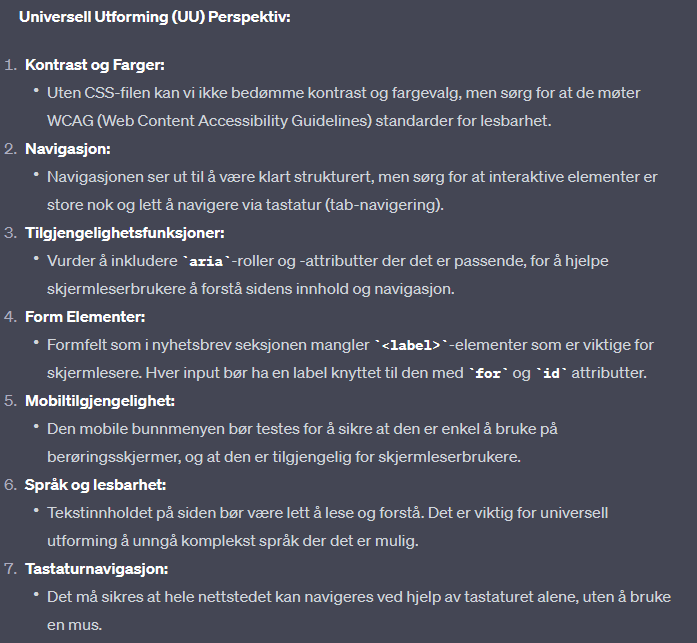
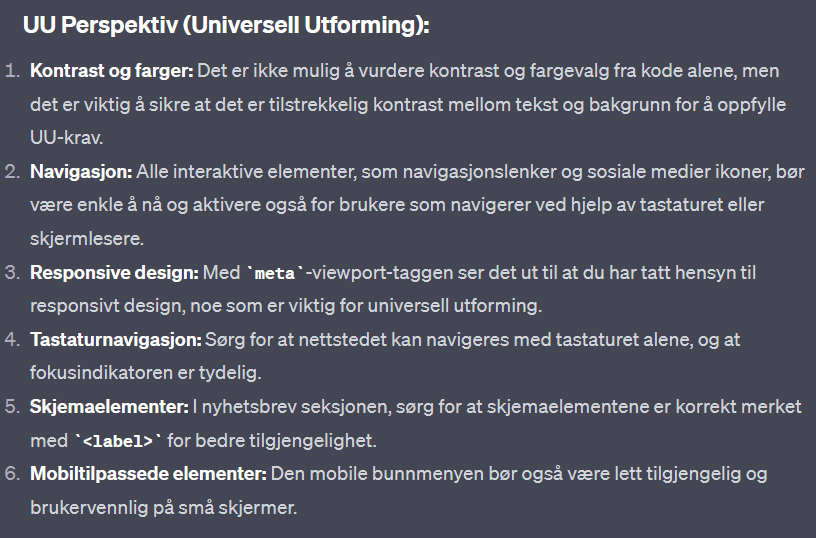
c

Changed region(s): [[0.0, 0.0, 0.9943, 0.9814]]

diff --git a/analyse.html b/analyse.html
@@ -123,41 +123,64 @@
 <section id="seo-analyse">
     <h2>SEO Analyse</h2>
     
+    <section class="seo-analyse-forside">
+        <h2>Forsiden Analyse</h3>
+        <p>Lighthouse-analysen viser at både desktop- og mobilversjonen oppnår en SEO-poengsum på 90 av 100. Dette er et imponerende resultat, men analysen har også identifisert et forbedringspunkt: begge versjonene mangler en meta-beskrivelse. En velutformet meta-beskrivelse er viktig for søkemotoroptimalisering, og legge til dette kan ytterligere styrke sidens SEO-status.</p>
+        
         <!-- Analyse for Forsiden Desktop -->
-        <article class="seo-analyse-item">
-            <h3>Forside - Desktop</h3>
-            <p>Desktop-analyse viser en SEO-score på 90, noe som indikerer at siden er godt optimalisert for søkemotorer. Den høye scoren reflekterer bruk av semantisk HTML, tilstedeværelsen av metatagger, og tilpassede titler og beskrivelser for siden.</p>
-            <img src="img/lighthouse-forside-desktop.png" alt="Lighthouse SEO analyse av forsiden på desktop">
+        <article class="seo-analyse-forside-desktop">
+            <h3>Forside - Desktop</h4>
+            <img src="img/seo-forside-desktop.png" alt="Lighthouse SEO analyse av forsiden på desktop" width="600" height="400">
         </article>
-    
+        
         <!-- Analyse for Forsiden Mobile -->
-        <article class="seo-analyse-item">
-            <h3>Forside - Mobile</h3>
-            <p>Mobil-analyse viser en SEO-score på 90, noe som tyder på at mobilvisningen også er godt optimalisert. Dette antyder at siden bruker responsive designprinsipper og har rask lastetid, noe som er viktig for mobilbrukere.</p>
-            <img src="img/lighthouse-forside-mobile.png" alt="Lighthouse SEO analyse av forsiden på mobile">
-        </article>
+        <article class="seo-analyse-item forside-mobile">
+            <h4>Forside - Mobile</h4>
+            <img src="img/seo-forside-mobile.png" alt="Lighthouse SEO analyse av forsiden på mobile">
+    </section>
     
+
+
+    <section class="seo-analyse-produktside">
+        <h2>Produktside Analyse</h2>
+        <p> Ved gjennomgang av nettstedet ble det oppnådd en SEO-score på 90/100 for både desktop- og mobilversjonene. Det ble påpekt at nettstedet mangler en meta-beskrivelse for begge versjonene. Mobilanalysen viser også at interaktive elementer som knapper og lenker ikke er optimalisert for tap; de bør ha en minimumsstørrelse på 48x48 piksler, eller tilstrekkelig med plass rundt seg, for å sikre en god brukeropplevelse og unngå overlapping med andre elementer. Å rette opp disse svakhetene vil ikke bare potensielt forbedre SEO-scoren ytterligere, men også brukervennligheten på tvers av enheter. </p>
+
+
         <!-- Analyse for Produktside Desktop -->
-        <article class="seo-analyse-item">
+        <article class="seo-analyse-produktside-desktop">
             <h3>Produktside - Desktop</h3>
-            <p>For desktop visning oppnår produktsiden en imponerende 100 i Performance, noe som betyr at siden laster svært raskt og har optimalisert ressursbruk. Accessibility-scoren på 93 indikerer at siden er godt tilgjengelig for brukere med forskjellige behov. En score på 86 i Best Practices viser at det er noen få områder for forbedring i hvordan nettleserfunksjoner brukes og annen god kodepraksis. SEO-scoren på 90 viser at siden er godt optimalisert for søkemotorer, men kan muligens forbedres ytterligere med finjusteringer.</p>
-            <img src="img/lighthouse-produktside-desktop.png" alt="Lighthouse SEO analyse av produktsiden på desktop">
+            <img src="img/seo-produkt-desktop.png" alt="Lighthouse SEO analyse av produktsiden på desktop">
         </article>
     
         <!-- Analyse for Produktside Mobile -->
-        <article class="seo-analyse-item">
+        <article class="seo-analyse-produktside-mobile">
             <h3>Produktside - Mobile</h3>
-            <p>På mobil enheter scorer produktsiden nesten like høyt som på desktop, med en Performance på 99 som demonstrerer rask lasting og effektivt innholdsrendering på mobile enheter. Tilgjengeligheten holder seg stabil på 93, noe som understreker at siden også er tilrettelagt for brukere med tilgjengelighetsbehov på tvers av enheter. Best Practices-scoren på 91 er en indikasjon på at siden følger moderne webstandarder og praksiser også for mobile brukere. SEO-scoren på 90 sikrer at siden er velposisjonert for søkemotorsynlighet, selv når den blir tilgjengeliggjort på mobile enheter. PWA-indikatoren viser at applikasjonen tilbyr en nær-native brukeropplevelse på mobile enheter, men detaljene her vil kreve en dypere teknisk analyse for å forstå det fulle potensialet av PWA for produktsiden.</p>
-            <img src="img/lighthouse-produktside-mobile.png" alt="Lighthouse SEO analyse av produktsiden på mobile">
+            <img src="img/seo-produkt-mobile-lighthouse.png" alt="Lighthouse SEO analyse av produktsiden på mobile">
         </article>
+    </section>
     
+
+
+
+
+    <sextion class="seo-analyse-produkdetalj">
+
         <!-- Analyse for Produktdetalj Side Desktop -->
-        <article class="seo-analyse-item">
+        <article class="seo-analyse-produktdetalj-desktop">
             <h3>Produktdetaljside - Desktop</h3>
-            <p>Denne Lighthouse-rapporten indikerer en eksepsjonell ytelse på 100 for desktop, noe som sikrer lynrask lastet. Den scorer også 90% på SEO-Analyse </p>
-            <img src="img/lighthouse-produktdetalj-desktop.png" alt="Lighthouse SEO analyse av produktdetaljsiden på desktop">
+            <p>  Desktop versjonen scorer 90 i SEO samme med mobil versjonen. Mobile versjonen får også en versjon om at tap targets are not sized properly - noe den scorer 89% på.      </p>
+            <img src="img/seo-produktdetalj-desktop.png" alt="Lighthouse SEO analyse av produktdetaljsiden på desktop">
             </article>
         </section>
+
+        <article class="seo-analyse-produktdetalj-mobile">
+            <h3>Produktdetaljside - Mobile</h3>
+            <img src="img/seo-produktdetalj-mobile.png" alt="Lighthouse SEO analyse av produktdetaljsiden på mobile">
+        </article>
+    </section>
+
+
+
 
 
 <!-- Seksjon for Universell Utforming (UU) Analyse -->
@@ -199,12 +222,9 @@
         <h3>SEO Resultater : Forside Analyse</h3>
 
         <img src="img/seoperspektiv-forside.png" alt="ChatGPT SEO analyse for forside">
-        <p>
-
-        I SEO-analysen påpekes det først at språkattributtet på siden indikerer engelsk (lang="en"), men siden er ment for et norsk publikum, derfor foreslås det å endre attributtet til norsk (lang="no") for å gjenspeile innholdets språk. Det nevnes at meta-beskrivelser og nøkkelord mangler, og at titteltaggen bør inneholde viktig nøkkelord og spesifikk informasjon for å forbedre relevansen. Videre anbefales det å strukturere overskrifter på en semantisk måte for brukervennlighet og søkemotoroptimalisering, samt å sørge for at bildetekster er beskrivende og at ankerlenker (linker) er informative og relevante. Responsiv design er også nevnt, spesielt viktigheten av en viewport meta-tag for mobilvennlighet. Til slutt er det en oppfordring til å inkludere Open Graph og Twitter-kort metatagger for å optimalisere hvordan innholdet deles på sosiale medier.
-
-        </p>
+        <p> I SEO-analysen påpekes det først at språkattributtet på siden indikerer engelsk (lang="en"), men siden er ment for et norsk publikum, derfor foreslås det å endre attributtet til norsk (lang="no") for å gjenspeile innholdets språk. Det nevnes at meta-beskrivelser og nøkkelord mangler, og at titteltaggen bør inneholde viktig nøkkelord og spesifikk informasjon for å forbedre relevansen. Videre anbefales det å strukturere overskrifter på en semantisk måte for brukervennlighet og søkemotoroptimalisering, samt å sørge for at bildetekster er beskrivende og at ankerlenker (linker) er informative og relevante. Responsiv design er også nevnt, spesielt viktigheten av en viewport meta-tag for mobilvennlighet. Til slutt er det en oppfordring til å inkludere Open Graph og Twitter-kort metatagger for å optimalisere hvordan innholdet deles på sosiale medier. </p>
     </article>
+</section>
 
     <article id="chatgpt-uu-forside">
     <h3>UU Resultater : Forside Analyse</h3>
@@ -238,9 +258,9 @@
 
 
 
-    <article id="chatgpt-seo-produkt">
+    <article id="chatgpt-uu-produkt">
         <h3> UU Resultater : Produktside Analyse </h3>
-        <img src="img/uu-analyse-produktside" alt="ChatGPT UU analyse for produktside">
+        <img src="img/uu-produkt.png" alt="ChatGPT UU analyse for produktside">
 
         <p>
 
@@ -248,16 +268,33 @@
 
         </p>
 
+    </article>
 
 
+    <article id="chatgpt-seo-produktdetalj">
+        <h3> SEO Resultater : Produktdetalj Analyse</h3>
+        <img src="img/seo-produktdetalj.png" alt="ChatGPT SEO analyse for produktdetalj side">
+
+        <p>
+
+            I SEO-delen for produktdetalj siden er det anbefalt å endre språkinnstillingen i html-taggen fra engelsk til norsk for å matche nettstedets innholdsspråk. En meta-beskrivelse bør også legges til for å forbedre nettstedets søkemotoroptimalisering, sammen med mer beskrivende alt-attributter for bilder for å styrke både SEO og tilgjengelighet. Nettstedets tittel kunne vært forbedret med flere beskrivende nøkkelord. Bruken av overskrifter fra h1 til h6 bør være mer strukturert for å skape en klarere innholdsstruktur, og lenker som kun inneholder ikoner bør suppleres med tekst som gir informasjon om lenkens formål til søkemotorer.
+
+        </p>
 
 
+    </article>
+
+    <article id="chatgpt-uu-produktdetalj">
+        <h3> UU Resultater : Produktdetalj Analyse </h3>
+        <img src="img/uu-produktdetalj.png" alt="CHATGPT UU analyse for produktdetalj side">
+
+        <p>
+
+            Når det gjelder universell utforming (UU), er bruken av aria-label for å beskrive seksjoner et positivt skritt, men det påpekes at disse etikettene bør være mer informative. Det mangler synlige fokusindikatorer for interaktive elementer, noe som er viktig for tastaturbrukere. Skjemaer og nyhetsbrevinnmeldinger mangler korrekte label-elementer, noe som er essensielt for skjermleserbrukere. Tekstkontraster og størrelser bør også vurderes nøye for å sikre at de er lesbare for alle brukere, inkludert de med synshemming. Videre, tilgjengelige tekstbeskrivelser for knapper som "Legg til i handlekurv" eller "Legg til i favoritter" er ikke tilstede, men kan forbedres med aria-label. Responsiviteten på nettstedet skal også sikres for å støtte ulike skjermstørrelser og enheter.
 
 
-    
-
-
-
+        </p>
+    </article>
 
 
 
@@ -267,55 +304,92 @@
 
     <h3>SEO Resultater : Produktdetaljside Analyse</h3>
 
-
-
-
-
-
-
+    
     
 
+<!-- Lager en tabell med en inspirasjon fra dev.to | https://dev.to/dcodeyt/creating-beautiful-html-tables-with-css-428l -->
+<!-- Sammenligningstabell for SEO og tilgjengelighetsanalyse -->
+<table class="table">
+    <thead>
+        <tr>
+            <th>Evaluering</th>
+            <th>ChatGPT Resultater</th>
+            <th>Lighthouse Resultater</th>
+            <th>WebAIM Resultater</th>
+        </tr>
+    </thead>
+    <tbody>
+        <!-- SEO Analyse -->
+        <tr>
+            <td>SEO: Språk</td>
+            <td>Vurdere å bruke "lang" attributtet for norsk innhold</td>
+            <td></td>
+            <td></td>
+        </tr>
+        <tr>
+            <td>SEO: Meta Description</td>
+            <td>Mangel på meta description</td>
+            <td>Mangler meta description</td>
+            <td></td>
+        </tr>
+        <tr>
+            <td>SEO: Nøkkelord og Titler</td>
+            <td>Inkludere viktige nøkkelord i tittelen for bedre SEO</td>
+            <td></td>
+            <td></td>
+        </tr>
+        <tr>
+            <td>SEO: Linker</td>
+            <td>Linker kan være mer beskrivende, unngå "klikk her"</td>
+            <td></td>
+            <td>Empty link, Redundant link</td>
+        </tr>
+        <tr>
+            <td>SEO: Overskrifter</td>
+            <td>Passe på riktig bruk av <h1-h6> for innholdets viktighet</td>
+            <td></td>
+            <td>Missing first level heading</td>
+        </tr>
+        <!-- UU (Universell Utforming) Analyse -->
+        <tr>
+            <td>UU: Navigasjon</td>
+            <td>Nettstedet bør være navigerbart med tastatur</td>
+            <td></td>
+            <td></td>
+        </tr>
+        <tr>
+            <td>UU: Skjemaer</td>
+            <td>Skjemaelementer bør merkes korrekt med <label></td>
+            <td></td>
+            <td>Missing form label</td>
+        </tr>
+        <tr>
+            <td>UU: Mobil Brukervennlighet</td>
+            <td>Mobil bunnmenyen bør være brukervennlig på små skjermer</td>
+            <td>Advarsel for størrelsen på elementer for touch</td>
+            <td></td>
+        </tr>
+        <tr>
+            <td>UU: Interaktive Elementer</td>
+            <td>Knapper og lenker bør være store nok og enkle å aktivere</td>
+            <td></td>
+            <td></td>
+        </tr>
+        <!-- Andre WebAIM funn -->
+        <tr>
+            <td>WebAIM: Alternative Tekster</td>
+            <td></td>
+            <td></td>
+            <td>Sus alternative text</td>
+        </tr>
+        <!-- Fortsett med flere rader basert på de faktiske resultatene fra analysene -->
+    </tbody>
+</table>
 
 
 
 
 
-
-
-
-
-
-
-
-
-
-
-
-        <!-- Sammenligningstabell -->
-        <section id="sammenligningstabell">
-            <h2>Sammenligning av Resultater</h2>
-            <table>
-                <thead>
-                    <tr>
-                        <th>ChatGPT Resultater</th>
-                        <th>Lighthouse Resultater</th>
-                        <th>WebAIM Resultater</th>
-                    </tr>
-                </thead>
-                <tbody>
-
-
-
-                    <!-- Fyll inn hver rad med resultater fra hver ressurs -->
-                    <tr>
-                        <td>ChatGPT resultatene her</td>
-                        <td>Lighthouse resultatene her</td>
-                        <td>WebAIM resultatene her</td>
-                    </tr>
-                    <!-- Gjenta for hver side/resultat du har -->
-                </tbody>
-            </table>
-        </section>
 
 
 
@@ -328,12 +402,7 @@
         </section>
 
     </main>
-
-
-
-
-        
-        <!-- Footer-seksjonen -->
+    <!-- Footer-seksjonen -->
         <footer>
             <!-- Nyttige lenker seksjon -->
             <section class="useful-links">

diff --git a/style.css b/style.css
@@ -50,12 +50,6 @@ header {
 .navbar { margin-top: 1.5rem;}
 
 
-.navbar a {
-  margin: 4px; /* Make sure there is space between the tap targets */
-  font-size: 16px; /* You can adjust the font-size if needed */
-}
-
-
 nav a {
 color: #333;
 font-size: 16px;
@@ -144,15 +138,6 @@ display: none;
 
 
 
-/* For icons like cart and flag which are interactive */
-#cart, #flag {
-  padding: 12px; /* Add padding to increase tap area to at least 48x48px */
-  font-size: 24px; /* Adjust the font-size to ensure icons are easily tappable */
-}
-
-
-
-
 
 
 /* Jeg la til "Home" i nav elementet - men velger å fjerne det
@@ -182,8 +167,6 @@ på mobil ved hjelp av media query: */
 
 .mobile-bottom-bar a {
   color: #0e0e0e;
-  padding:12px; 
-  margin: 4px;
   font-size: 24px; /* Økte skriftstørrelsen for å forstørre ikonene */
   text-decoration: none;
   transition: transform 0.5s, color 0.3s, border 0.3s; /* Glatt overgang ved hover */
@@ -242,16 +225,6 @@ list-style: none;
 padding: 0;
 
 }
-
-/* For the newsletter button */
-footer .newsletter button {
-  min-width: 48px; /* Ensure minimum width */
-  min-height: 48px; /* Ensure minimum height */
-  padding: 12px 20px; /* Adjust padding to increase tap area */
-  margin:20px;
-}
-
-
 
 
 
@@ -384,8 +357,6 @@ padding:1.5rem;
 #cart, #flag, input[type="text"] {
   display: inline-flex;
 }
-
-
 
 
 

diff --git a/produktdetalj.html b/produktdetalj.html
@@ -6,6 +6,10 @@
     <!-- Definerer metainformasjon og stilark i head-seksjonen -->
     <meta charset="UTF-8">
     <meta name="viewport" content="width=device-width, initial-scale=1.0">
+    <meta name="description" content="Discover the latest in comfort & style with our wide range of shoes for all occasions.">
+
+
+
 
     <!-- Lenker til Normalize.css og Font Awesome-stiler -->
     <link rel="stylesheet" href="https://necolas.github.io/normalize.css/8.0.1/normalize.css" type="text/css">

diff --git a/index.html b/index.html
@@ -6,6 +6,7 @@
     <!-- Definerer metainformasjon og stilark i head-seksjonen -->
     <meta charset="UTF-8">
     <meta name="viewport" content="width=device-width, initial-scale=1.0">
+    <meta name="description" content="Discover the latest in comfort & style with our wide range of shoes for all occasions.">
 
     <!-- Lenker til Normalize.css og Font Awesome-stiler -->
     <link rel="stylesheet" href="https://necolas.github.io/normalize.css/8.0.1/normalize.css" type="text/css">

diff --git a/produkt.html b/produkt.html
@@ -6,6 +6,7 @@
     <!-- Definerer metainformasjon og stilark i head-seksjonen -->
     <meta charset="UTF-8">
     <meta name="viewport" content="width=device-width, initial-scale=1.0">
+    <meta name="description" content="Discover the latest in comfort & style with our wide range of shoes for all occasions.">
 
     <!-- Lenker til Normalize.css og Font Awesome-stiler -->
     <link rel="stylesheet" href="https://necolas.github.io/normalize.css/8.0.1/normalize.css" type="text/css">
